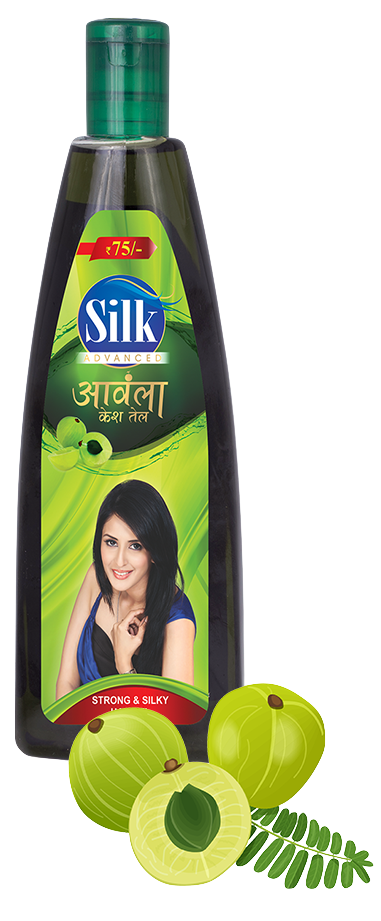
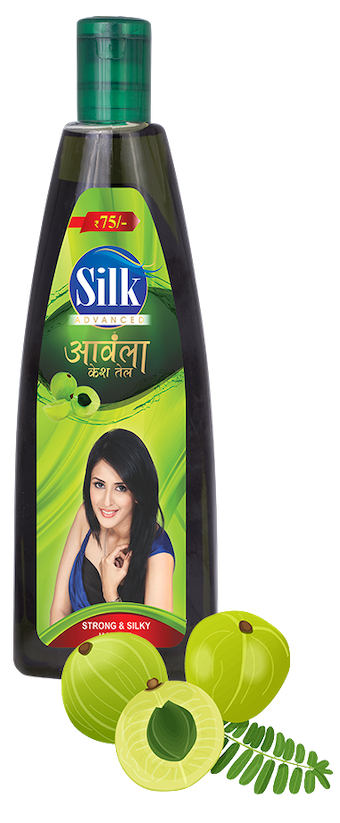
sizing done

diff --git a/index.html b/index.html
@@ -196,9 +196,45 @@
             </div>
 
 
-            <div class="row" style="margin-top: 20vh;" data-aos-easing="linear" data-aos="fade-up"
+
+            <div class="row">
+                <div>
+                    <div class="col s12 m1">
+
+                    </div>
+                    <div class="col s12 m2">
+                        <div class="center">
+                            <img src="images/Amla.png" alt="" width="100">
+                        </div>
+                    </div>
+                    <div class="col s12 m2">
+                        <div class="center">
+                            <img src="images/jaasmine.png" alt="" width="170">
+                        </div>
+                    </div>
+                    <div class="col s12 m2">
+                        <div class="center">
+                            <img src="images/silk_oil_bottle.png" alt="" width="100">
+                        </div>
+                    </div>
+                    <div class="col s12 m2">
+                        <div class="center">
+                            <img src="images/hansa.png" alt="" width="150" style="margin-top: 20%;">
+                        </div>
+                    </div>
+                    <div class="col s12 m2">
+                        <div class="center">
+                            <img src="images/sargam.png" alt="" width="200">
+                        </div>
+                    </div>
+                    <div class="col s12 m1">
+
+                    </div>
+                </div>
+            </div>
+
+            <!-- <div class="row" style="margin-top: 20vh;" data-aos-easing="linear" data-aos="fade-up"
                 data-aos-duration="1500">
-                <!-- <div class="col s12 m1"></div> -->
                 <div class="col s12 m2">
                     <div class="center">
                         <div class="flex-container">
@@ -226,7 +262,7 @@
 
                     </div>
                 </div>
-                <div class="col s12 m1"></div>
+
                 <div class="col s12 m2">
                     <div class="center">
                         <div class="flex-container">
@@ -264,8 +300,9 @@
                     </div>
                 </div>
 
+                <div class="col s12 m1"></div>
 
-            </div>
+            </div> -->
             <div class="center">
                 <a class="btn-large aboutUsButton" href="esc/slider.html" id="exploreProducts">Explore Products</a>
             </div>
@@ -368,7 +405,7 @@
                         023 (M.S.)</p>
                     <p><i class="fas fa-phone-alt"></i> 071-042-4616</p>
                     <p><i class="fas fa-phone-alt"></i> 913-000-0225</p>
-                    <p><i class="fas fa-envelope"></i> mpcpcare@gmail.com</p>
+                    <p><i class="fas fa-envelope"></i> mpcp@ymail.com</p>
                 </div>
                 <div class="navigate">
                     <p class="title" id="navigate"><b>NAVIGATE</b></p>
@@ -400,7 +437,7 @@
                 </div>
                 <div class="company" style="margin-top: 0px;">
                     <p id="legal" class="title"><b>LEGAL</b></p>
-                    <p id="pp" > <a href="privacy.html"> PRIVACY POLICY</a></p>
+                    <p id="pp">PRIVACY POLICY</p>
                     <p id="tou">TERMS OF USE</p>
 
 

diff --git a/css/universal.css b/css/universal.css
@@ -395,7 +395,7 @@ flex-container,
 .c-logo {
   width: 200px;
   height: 200px;
-  /* margin-left: 25%; */
+  /* margin-left: 20%; */
   background-color: transparent;
   /* box-shadow: 0 20px 27px rgba(0, 0, 0, 0.05); */
   color: white;
